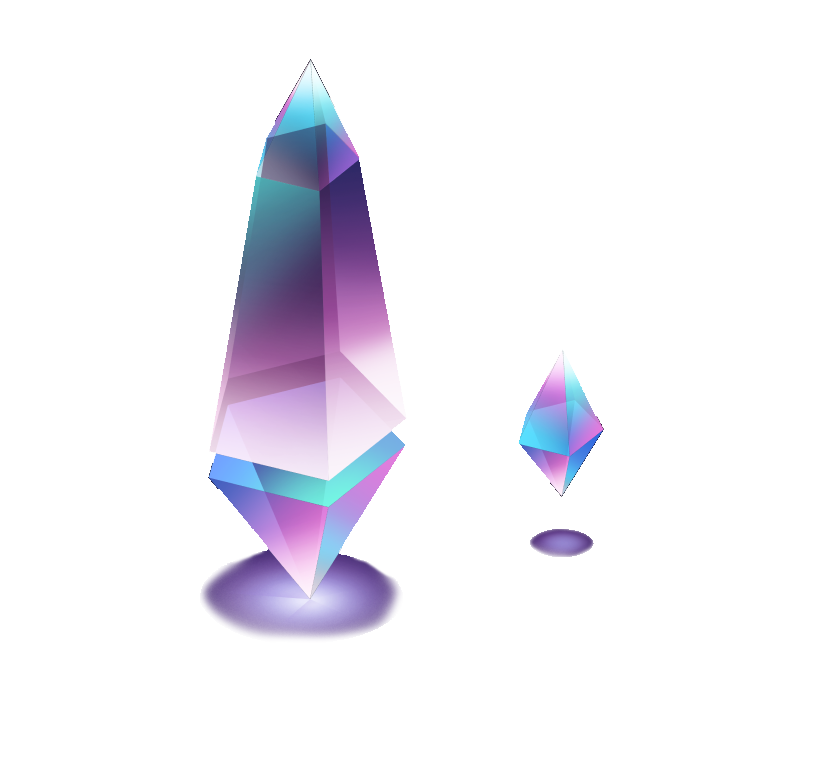
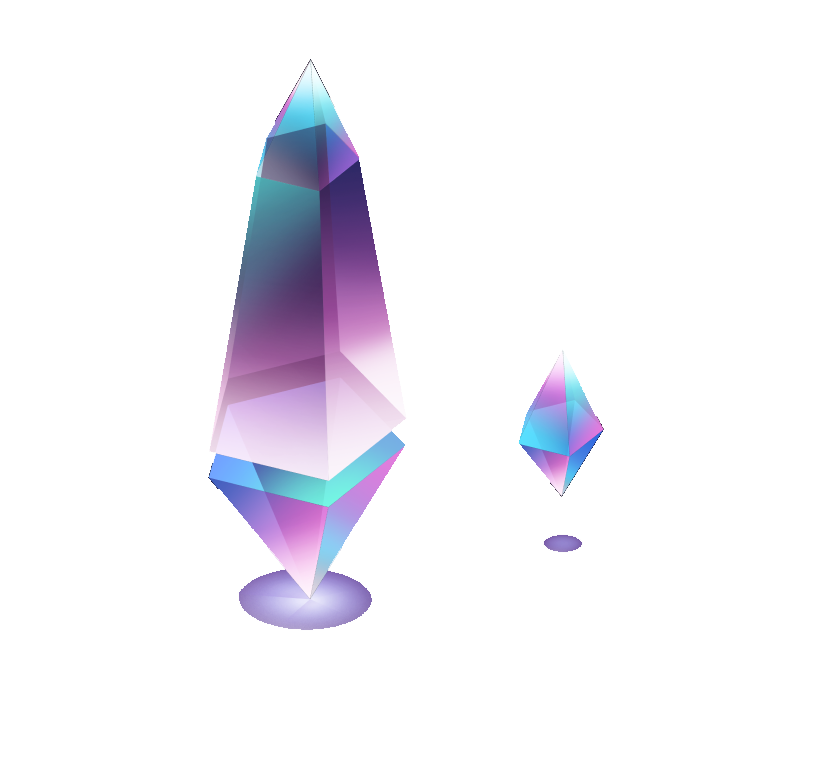
home70%

Changed region(s): [[0.2177, 0.7282, 0.4976, 0.8496], [0.622, 0.6979, 0.7153, 0.7586]]

diff --git a/client/src/Components/Home/Home.module.css b/client/src/Components/Home/Home.module.css
@@ -5,20 +5,20 @@
 
 .body {
   background-color: #0f103f;
-  max-height: 100vh;
+  max-height: 100%;
   height: 100vh;
+  display: flex;
+  grid-template-columns: auto;
+  background-size: cover;
+  max-width: 100%;
+  width: 300vh;
+  /* background-size: ; */
 }
 
-.girl {
-  position: absolute;
-  top: 100vh;
-  left: 65vh;
-  border-bottom-left-radius: 50%;
-  border-bottom-right-radius: 50%;
-  width: 620px;
-  height: 620px;
-  overflow: hidden;
+::-webkit-scrollbar {
+  display: none;
 }
+
 .luz {
   position: absolute;
   width: 620px;
@@ -35,22 +35,73 @@
 }
 .diamante {
   position: absolute;
-  top: 80vh;
+  top: 98vh;
   left: 90vh;
   width: 48vh;
   height: 51vh;
+  z-index: 99;
+  opacity: 0.8;
 }
 .luzDiamante {
   position: absolute;
   width: 320px;
   height: 320px;
   /* max-height: 620px; */
-  top: 110vh;
+  top: 130vh;
   left: 90vh;
+  /* background-color: red; */
   background: radial-gradient(
     54.4% 54.4% at 31.2% 52%,
     rgb(41, 84, 163) 0%,
     rgb(15, 16, 63) 100%
   );
   filter: blur(200px);
+  z-index: 98;
+  /* display: none; */
+}
+
+.circulo {
+  position: relative;
+  z-index: 999;
+}
+.circulos {
+  position: relative;
+  z-index: 3;
+}
+
+.divTextHome {
+  position: absolute;
+  width: 330px;
+  height: 130px;
+  left: 90vh;
+  top: 145vh;
+  z-index: 99;
+  font-style: normal;
+  font-weight: 400;
+  font-size: 17px;
+  line-height: 26px;
+
+  color: #ffffff;
+
+  font-family: "Poppins";
+}
+.sidemenu {
+  position: absolute;
+  width: 80px;
+  height: 700px;
+  left: -1px;
+  top: 162px;
+
+  /* background: rgba(255, 255, 255, 0.4); */
+  backdrop-filter: blur(20px);
+  /* Note: backdrop-filter has minimal browser support */
+
+  border-radius: 0px 50px 50px 0px;
+}
+.button1 {
+  position: absolute;
+  z-index: 999;
+  background-color: red;
+  color: blue;
+  cursor: pointer;
 }

diff --git a/client/src/Components/Home/Home.jsx b/client/src/Components/Home/Home.jsx
@@ -12,22 +12,23 @@ export default function Home() {
     <div>
       <Landing />
       <div className={s.body}>
-        <div className={s.container}>
-          <div className={s.luz}></div>
-          <div className={s.circulo1}>
-            <Circulos />
-          </div>
-          <div>
-            <Circulo />
-          </div>
-          <div className={s.girl}>
-            <Girl1 />
-          </div>
-          <div>
-            <img className={s.diamante} src={diamante} alt="diamante" />
-            <div className={s.luzDiamante}></div>
-          </div>
-        </div>
+        <div className={s.luz}></div>
+
+        <Circulo className={s.circulo} />
+
+        <Circulos className={s.circulos} />
+        <Girl1 />
+
+        <img className={s.diamante} src={diamante} alt="diamante" />
+        <div className={s.luzDiamante}></div>
+      </div>
+      <div className={s.divTextHome}>
+        <h2>About me</h2>
+        <p className={s.textP}>
+          A lifelong computer enthusiast and I would like to be allowed to work
+          with one of the prestigious company. I am an excellent fit for a
+          company given my passion and skills. Read more...
+        </p>
       </div>
     </div>
   );

diff --git a/client/src/Components/Landing/Landing.jsx b/client/src/Components/Landing/Landing.jsx
@@ -1,19 +1,13 @@
-import React from 'react'
-import s from '../Landing/Landing.module.css'
-import planetas1 from './Assets/planetas/planetas.png'
+import React from "react";
+import s from "../Landing/Landing.module.css";
+import planetas1 from "./Assets/planetas/planetas.png";
 
 export default function Landing() {
   return (
     <div className={s.landing}>
-        <div className={s.planetas}>
-          
-        <img className={s.imgPlanet} src={planetas1}></img> 
-            
-        </div>
-       
-        
-   
-
+      <div className={s.planetas}>
+        <img className={s.imgPlanet} src={planetas1}></img>
+      </div>
     </div>
-  )
+  );
 }

diff --git a/client/public/index.html b/client/public/index.html
@@ -9,6 +9,10 @@
       name="description"
       content="Web site created using create-react-app"
     />
+    <link
+      href="https://fonts.googleapis.com/css2?family=Caveat&family=Poppins:ital,wght@0,100;1,100&display=swap"
+      rel="stylesheet"
+    />
     <link rel="apple-touch-icon" href="%PUBLIC_URL%/logo192.png" />
     <!--
       manifest.json provides metadata used when your web app is installed on a

diff --git a/client/src/Components/Home/Assets/Circulos/Circulos.module.css b/client/src/Components/Home/Assets/Circulos/Circulos.module.css
@@ -1,12 +1,19 @@
 /* BG Small Circle */
 .body {
-  display: flex;
-}
-.circulos {
+  /* display: flex; */
+  overflow: hidden;
+  /* background-color: red; */
   position: absolute;
-  bottom: -95vh;
   left: 40vh;
-  max-width: 900px;
+  height: 65vh;
+  margin-top: 15rem;
+}
+
+.circulos {
+  /* bottom: -110vh; */
+  z-index: 1;
+  /* max-width: 900px; */
+  /* background-color: beige; */
 }
 
 .imgCirculo {

diff --git a/client/src/Components/Home/Assets/girl/girl1.module.css b/client/src/Components/Home/Assets/girl/girl1.module.css
@@ -1,5 +1,17 @@
 .img {
-  position: absolute;
-  display: flex;
+  /* position: absolute; */
+  /* display: flex; */
   margin-top: -11.5rem;
+}
+
+.body {
+  position: absolute;
+  top: 116vh;
+  left: 65vh;
+  border-bottom-left-radius: 50%;
+  border-bottom-right-radius: 50%;
+  width: 620px;
+  height: 620px;
+  overflow: hidden;
+  z-index: 10;
 }

diff --git a/client/src/Components/Home/Assets/Circulo/Circulo.module.css b/client/src/Components/Home/Assets/Circulo/Circulo.module.css
@@ -2,6 +2,9 @@
   display: flex;
 }
 .circulo {
-  position: absolute;
-  left: 65vh;
+  /* position: absolute; */
+  z-index: 2;
+  margin-left: 65vh;
+  bottom: 1vh;
+  margin-top: 16vh;
 }
